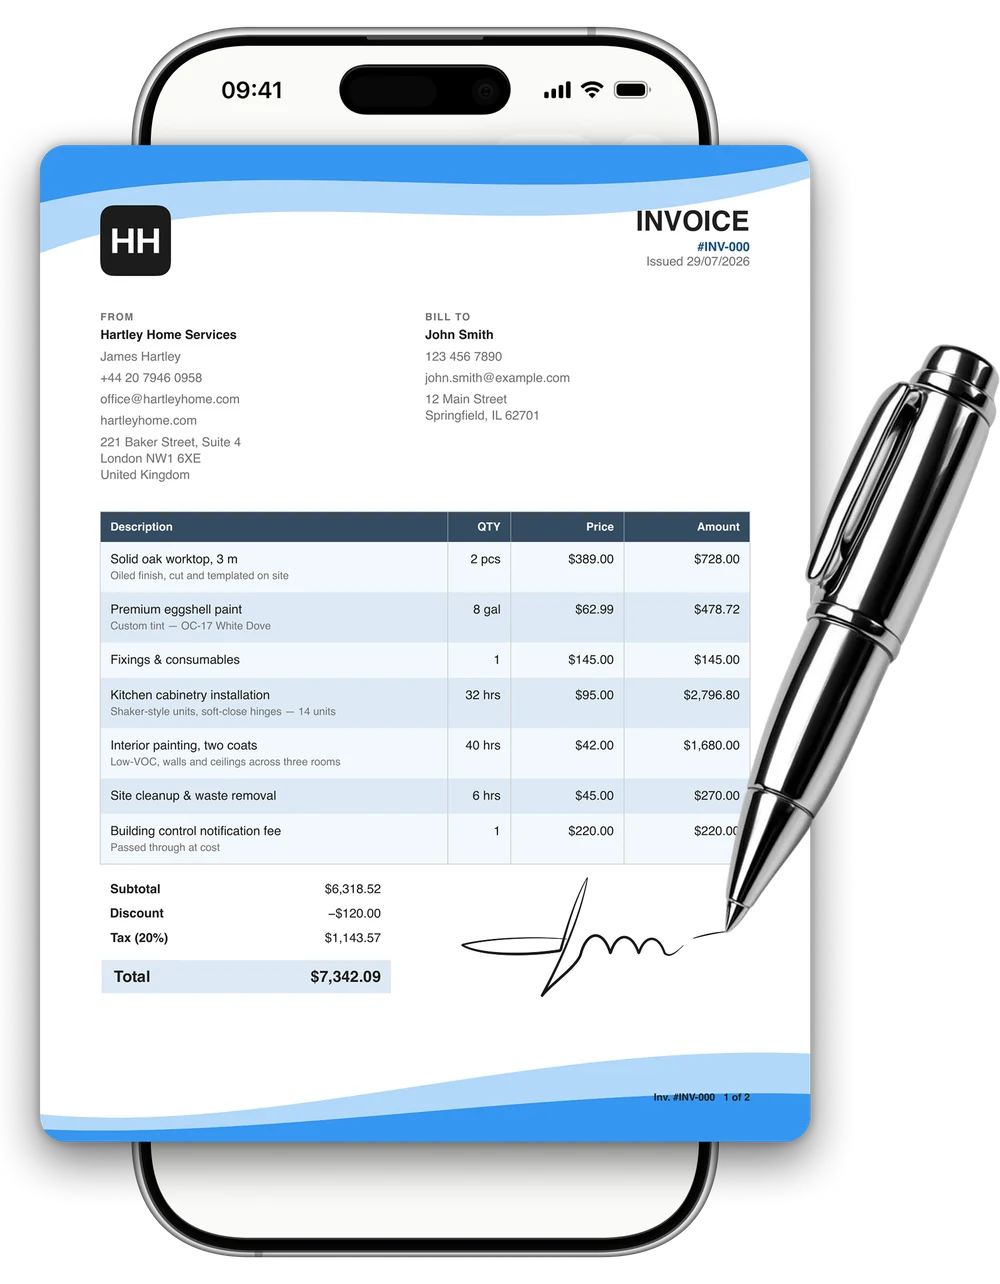
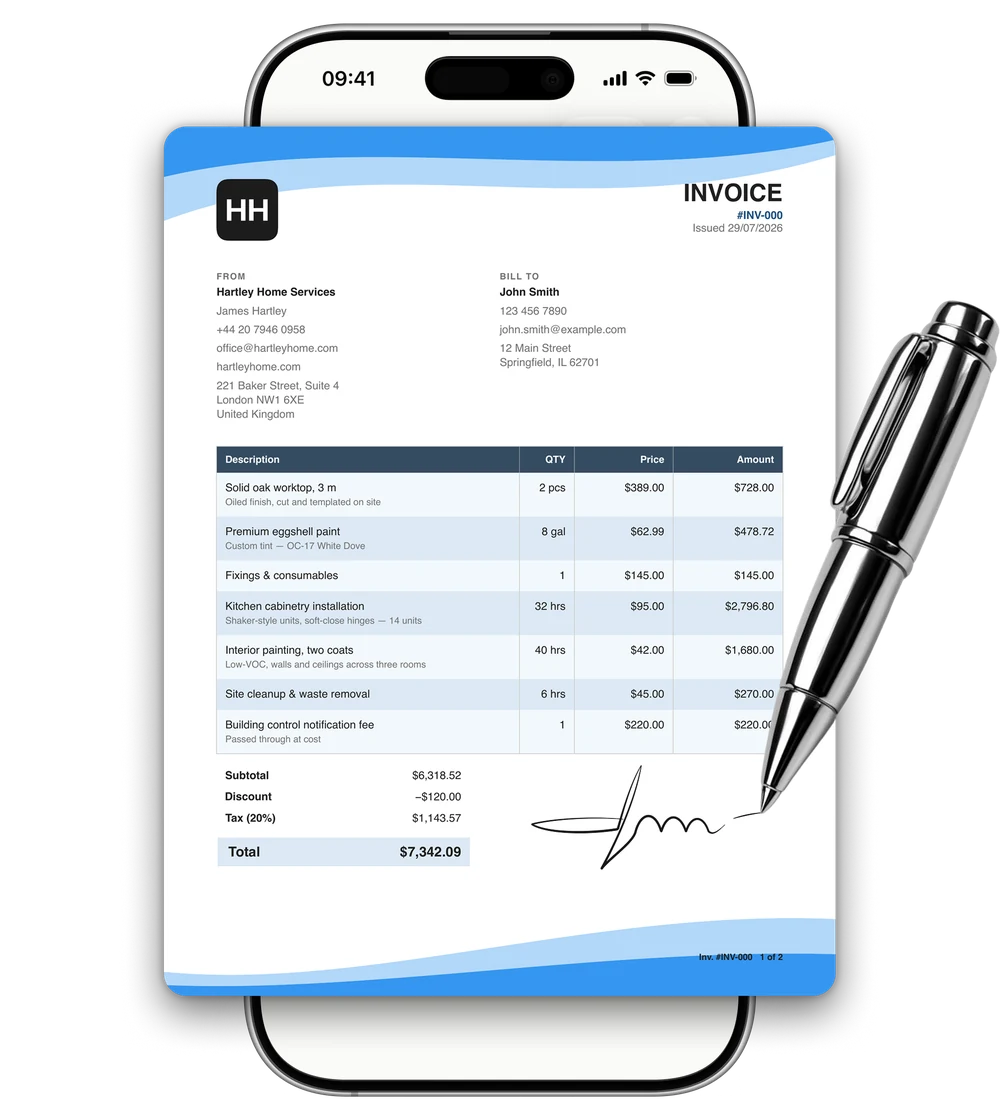
Centre the hero art on the phone, not on its bounding box
The new export puts the phone and the invoice on the same centre line, so
the fix is a symmetric crop around it: half-width is the pen's reach, and
the mirror of that reach becomes empty space down the left. The art box's
own centre is now the composition's centre, which means plain margin auto
puts the invoice dead centre. Measured on the page: 1px off at 1440, 0px at
762 and 390.

The empty left column is 16.4% of the box, so decor insets are all re-read
against the new silhouette and the box itself is wider to compensate. Below
760px the stage goes edge to edge rather than sitting in the text column,
otherwise that transparent column would render as a small phone with a
margin baked into the pixels.

diff --git a/style.css b/style.css
@@ -107,39 +107,46 @@ h1 {
   margin: 46px 0 -2px; padding: 0 24px;
 }
 /* The art carries its own phone body and shadow, so no CSS chrome here.
-   Its silhouette is not a rectangle, and that is what the decor has to clear.
-   Right edge as a percentage of the art box, read off the asset's alpha
-   channel in 5% slices of its height:
+   It is cropped so the phone and the sheet sit on the art box's own centre
+   line (both measure 49.9–50.0%), which is why the box carries 16% of empty
+   space down its left side: that mirrors how far the pen reaches out right.
+   Centre the box and the composition is centred.
 
-      0–10%   69–72%   phone frame only
-     10–25%      81%   invoice sheet
-     25–35%     100%   the pen, at full reach
-     35–45%   98→96%   |
-     45–55%   93→90%   | pen tapering back in
-     55–65%   87→84%   |
-     65–90%      81%   sheet again
-     90–100%     72%   phone frame only
+   The silhouette is still not a rectangle, and that is what the decor has to
+   clear. Right edge as a percentage of the art box, in 5% slices of height:
 
-   Left edge is 4% wherever the sheet is, 13–16% above and below it. */
-.device { width: min(500px, 100%); margin: 0 auto; }
+      0–10%   73–75%   phone frame only
+     10–25%    83.4%   invoice sheet
+     25–35%    99.8%   the pen, at full reach
+     35–45%  98→96%    |
+     45–55%  94→91%    | pen tapering back in
+     55–65%  89→86%    |
+     65–90%    83.4%   sheet again
+     90–100%   73–75%  phone frame only
+
+   Left edge is 16.4% wherever the sheet is, 24–27% above and below it. */
+.device { width: min(560px, 100%); margin: 0 auto; }
 .device img, .device picture { display: block; width: 100%; height: auto; }
 /* Six marks on a ring around the art: seal at the top right, euro out past the
    pen at the sheet's midline, initials below it, then dollar, signature and
    pound back up the left side. */
 .dec { position: absolute; }
-.dec-sign { width: 170px; left: 2.5%; top: 38%; transform: rotate(-8deg); opacity: .22; }
+.dec-sign { width: 170px; left: 6%; top: 37%; transform: rotate(-8deg); opacity: .22; }
 .dec-init {
-  right: 12%; top: 70%; transform: rotate(-6deg);
+  right: 8%; top: 68%; transform: rotate(-6deg);
   font-family: "Snell Roundhand", "Apple Chancery", "Segoe Script", cursive;
   font-size: 56px; line-height: 1; color: #C8C8C3;
 }
-/* Smaller and higher than it used to be: it has to finish above the 25% mark,
-   where the pen starts claiming the right side. */
-.dec-seal { width: 132px; right: 14%; top: 0.5%; transform: rotate(10deg); color: #C3C3BE; }
+/* Small and high on purpose: it has to finish above the 25% mark, where the
+   pen starts claiming the right side. */
+.dec-seal { width: 132px; right: 10.5%; top: 0; transform: rotate(10deg); color: #C3C3BE; }
 .cur { font-weight: 800; line-height: 1; color: #CECEC9; }
-.cur-usd { font-size: 56px; left: 16.5%; bottom: 15%; transform: rotate(-11deg); }
-.cur-eur { font-size: 64px; right: 17%; top: 47%; transform: rotate(9deg); }
-.cur-gbp { font-size: 48px; left: 17.5%; top: 3%; transform: rotate(-7deg); }
+.cur-usd { font-size: 56px; left: 20.5%; bottom: 15%; transform: rotate(-11deg); }
+/* Sits past the pen, not under it — hence the small inset. */
+.cur-eur { font-size: 64px; right: 14.5%; top: 45%; transform: rotate(9deg); }
+/* Dips below the phone's rounded top corner, so it clears the sheet's edge
+   at 16.4%, not the frame's at 24.5%. */
+.cur-gbp { font-size: 48px; left: 22%; top: 2%; transform: rotate(-7deg); }
 @media (prefers-reduced-motion: no-preference) {
   .dec-seal { animation: decbob 7s var(--ease-in-out) infinite; }
   .dec-sign { animation: decbob 8.6s var(--ease-in-out) infinite; animation-delay: -3.2s; }
@@ -155,23 +162,22 @@ h1 {
 /* Narrower stage, narrower side gutters: shrink the marks so they still clear
    the phone instead of drifting over it. */
 @media (max-width: 1040px) {
-  .device { width: min(420px, 100%); }
-  .dec-sign { width: 124px; left: 0.5%; }
-  .dec-seal { width: 104px; right: 8%; }
-  .dec-init { font-size: 40px; right: 8%; }
-  .cur-usd { font-size: 40px; left: 13%; }
-  /* Has to clear the pen, not the sheet — hence far less inset than the
-     other currencies. */
-  .cur-eur { font-size: 42px; right: 15%; }
-  .cur-gbp { font-size: 34px; left: 14%; }
+  .device { width: min(460px, 100%); }
+  .dec-sign { width: 140px; left: 3%; }
+  .dec-seal { width: 104px; right: 6%; }
+  .dec-init { font-size: 40px; right: 6%; }
+  .cur-usd { font-size: 40px; left: 20%; }
+  .cur-eur { font-size: 42px; right: 11%; }
+  .cur-gbp { font-size: 34px; left: 24%; }
 }
 /* Below this the phone eats the full width — there is no gutter left to stand
    in, and decor drawn over the screenshot is what made it invisible. */
 @media (max-width: 760px) {
-  /* Trim the stage padding instead of widening the art: a child wider than
-     its container does not centre, it just runs off the right edge. */
-  .stage { margin-top: 36px; padding: 0 4px; }
-  .device { width: min(420px, 100%); }
+  /* Wider stage, no padding: the art carries 16% of empty space on its left,
+     so a box sized to the text column would render a small phone with a
+     margin baked into the pixels. Trim the stage instead of the art. */
+  .stage { margin-top: 36px; width: calc(100vw - 16px); padding: 0; }
+  .device { width: min(440px, 100%); }
   .dec { display: none; }
 }
 

diff --git a/index.html b/index.html
@@ -14,7 +14,7 @@
 <meta property="og:image" content="https://evgeniymityulya.github.io/esign-invoice/og.jpg">
 <meta name="twitter:card" content="summary_large_image">
 <link rel="icon" href="./favicon.png">
-<link rel="stylesheet" href="./style.css?v=17">
+<link rel="stylesheet" href="./style.css?v=18">
 </head>
 <body>
 <div class="bar">
@@ -60,7 +60,7 @@
     <div class="device">
       <picture>
         <source srcset="./art/hero-sign.webp" type="image/webp">
-        <img src="./art/hero-sign.png" alt="A signed invoice for a home services job, open on an iPhone" width="1000" height="1284">
+        <img src="./art/hero-sign.png" alt="A signed invoice for a home services job, open on an iPhone" width="1000" height="1120">
       </picture>
     </div>
   </div>
